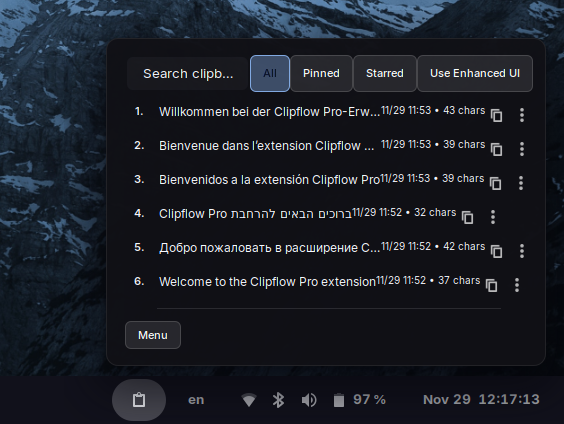
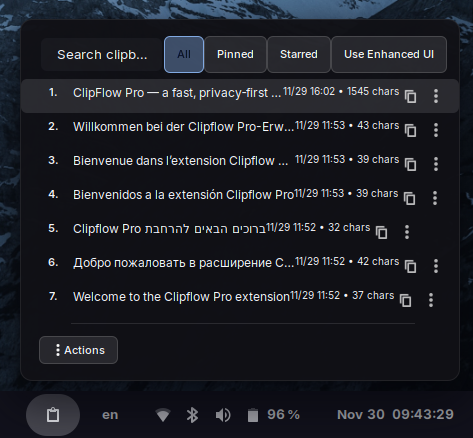
docs: 1.3.3 screenshots – gradient collage + refreshed #2; README/CHANGELOG updates (#71)
* docs(screenshots): update 1.3.3 collage with blue→purple gradient; switch README screenshots to 1.3.3 set; refresh #2; note in CHANGELOG

* docs(screenshots): update 1.3.3/2.png (new quick menu)

diff --git a/CHANGELOG.md b/CHANGELOG.md
@@ -7,6 +7,9 @@ and this project adheres to [Semantic Versioning](https://semver.org/spec/v2.0.0
 
 ## [Unreleased]
 
+### Docs
+- Screenshots: refreshed `docs/screenshots/1.3.3/2.png` and regenerated the 3×3 collage with a blue→purple gradient background; updated README references and GitHub release assets for both GNOME 45–47 and 43–44 releases.
+
 ## [1.3.2] - 2025-11-27
 
 - UI: Simplified history rows to Copy + More overflow menu.

diff --git a/README.md b/README.md
@@ -99,7 +99,6 @@ Developer tooling:
     </td>
   </tr>
 </table>
-
 ## 📥 Installation
 
 ClipFlow Pro can be installed through multiple methods. Choose the one that works best for you:
